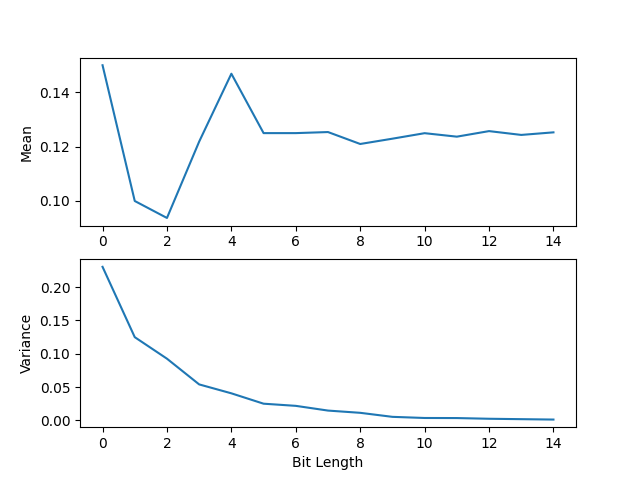
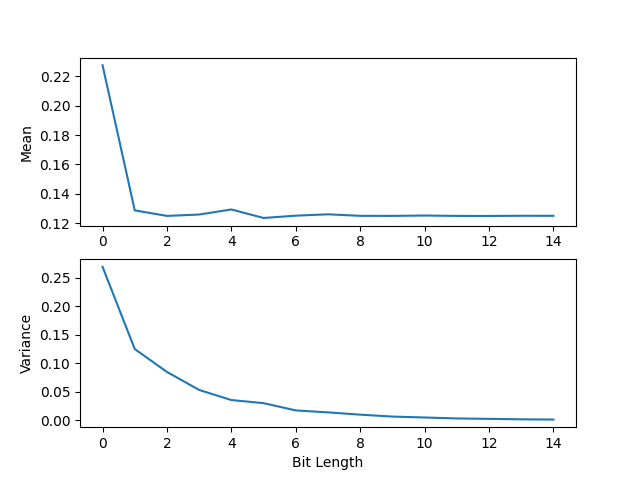
Increase Sample Count

diff --git a/Multiplication/SigmaDelta/Basic.py b/Multiplication/SigmaDelta/Basic.py
@@ -3,7 +3,7 @@ import matplotlib.pyplot as plt
 
 
 bitRange = 16
-probRange = 20
+probRange = 200
 
 p1 = 0.25
 p2 = 0.50
